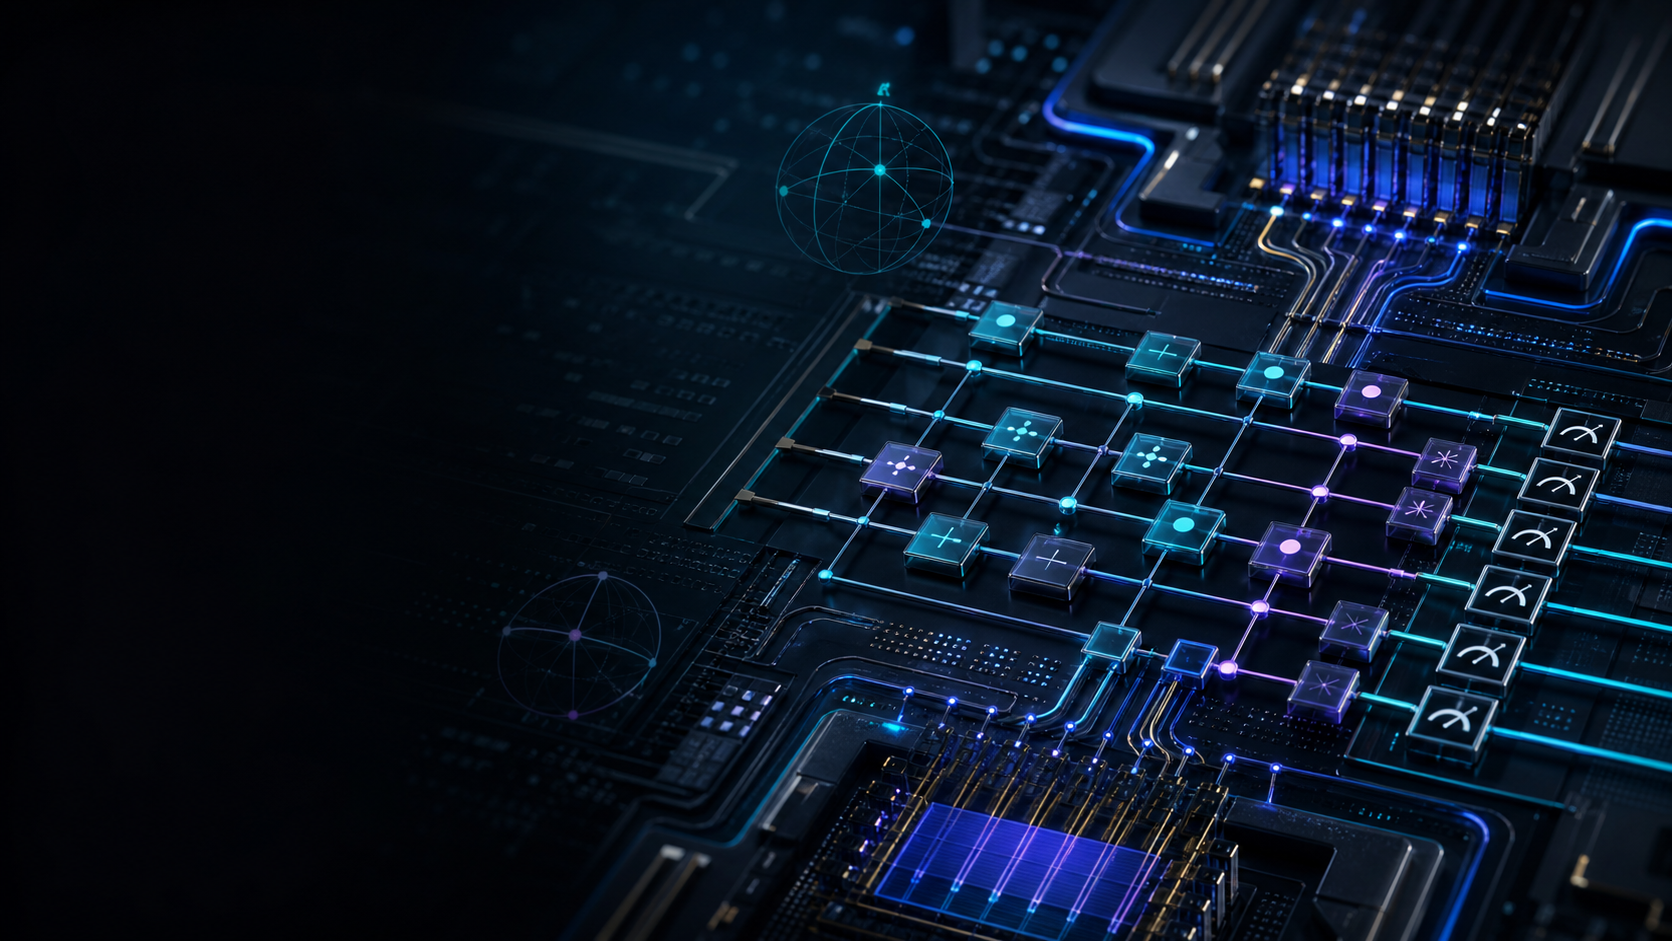
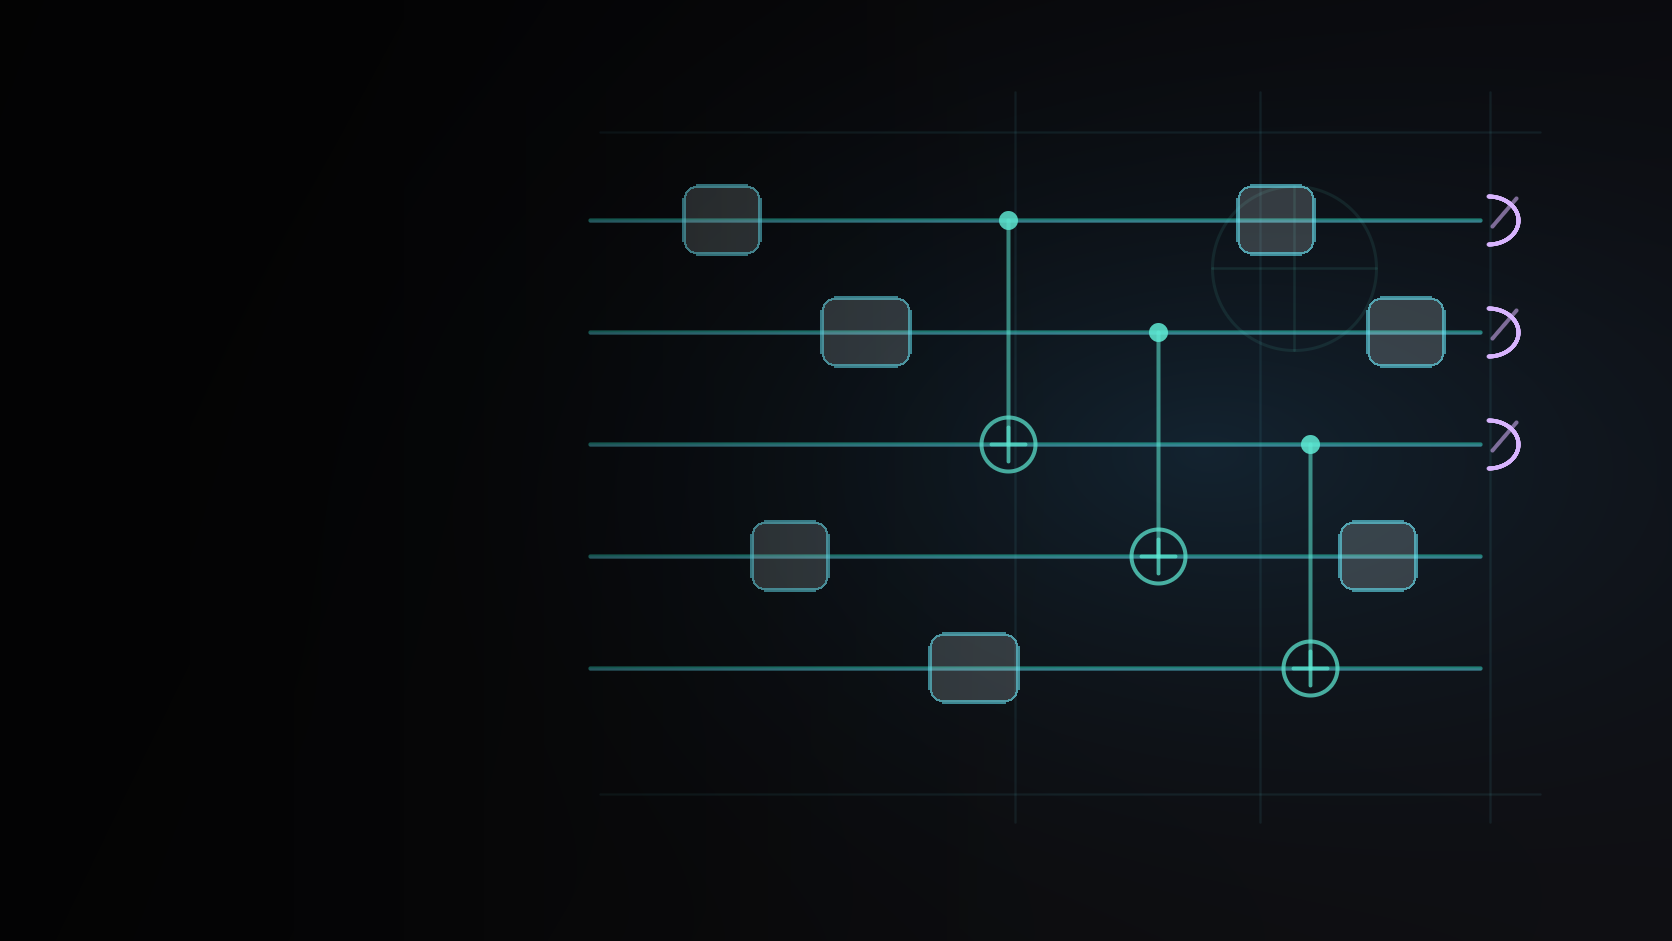
Simplify hero quantum circuit diagram

Changed region(s): [[0.2799, 0.0, 1.0, 1.0], [0.9641, 0.9554, 0.9952, 0.9862]]

diff --git a/app/layout.tsx b/app/layout.tsx
@@ -25,7 +25,7 @@ export const metadata: Metadata = {
         url: "/images/quantum-hero.png",
         width: 1536,
         height: 864,
-        alt: "Abstract quantum computing hero visual"
+        alt: "Abstract theoretical quantum circuit diagram"
       }
     ]
   },